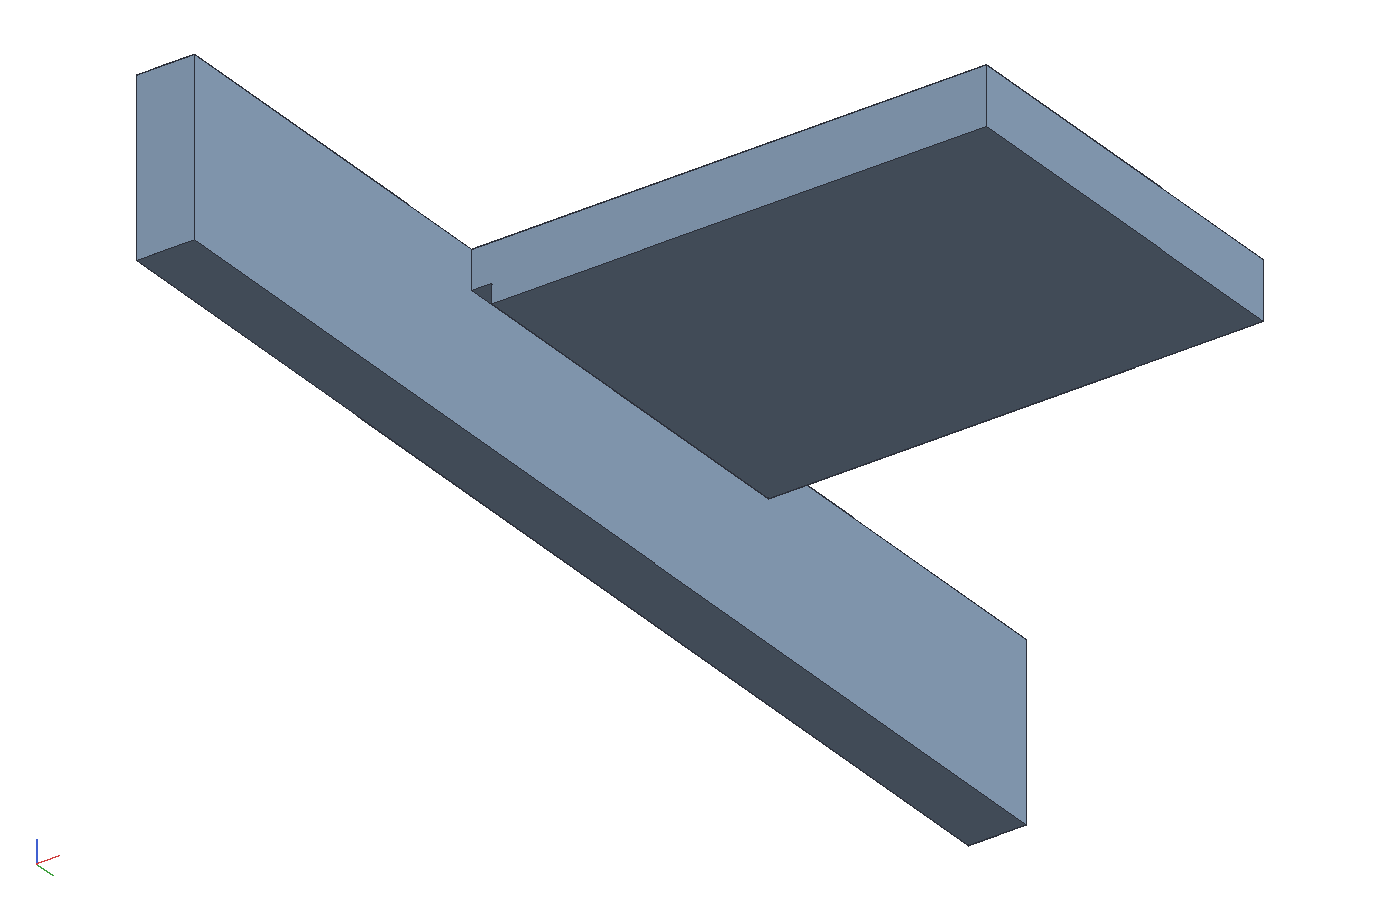
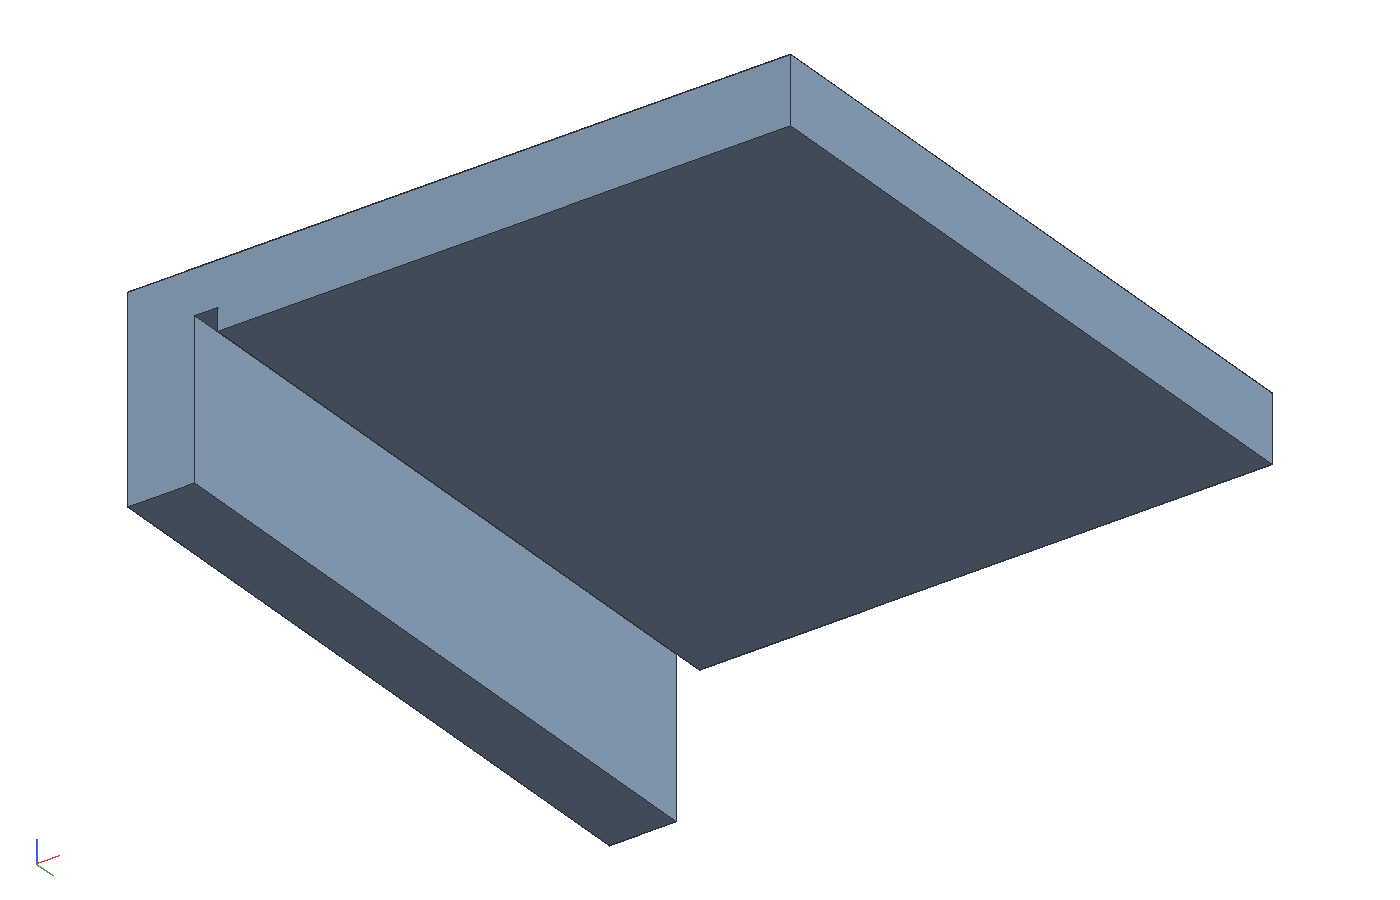
track-gauge: an extruded L, the fence the short leg and the depth the long
The gauge becomes an L in section extruded 60 mm along the sheet edge
instead of a T in plan: a 6 mm fence hanging 12 mm over the edge as
the short leg, a 6 mm depth leg out to 2 in plus the kerf, 53.0 mm,
as the long one, the 2 mm dust groove in the corner. Same print
orientation and registering faces; the test now checks it is one
extrusion (two end faces only) and its volume as the section by the
length. The README and roadmap follow.

Claude-Session: https://claude.ai/code/session_01Jqbg6MnHzXQdNRZ91M8YR1

diff --git a/examples/track-gauge/build.py b/examples/track-gauge/build.py
@@ -3,8 +3,9 @@ edge 2 in plus the blade's kerf from the edge of a sheet, so the cut
 leaves a 2 in strip. Hook the fence over the sheet edge, slide the
 track up to the gauge's face, lift the gauge off, cut. Two of them, one
 at each end of the track, square the track to the edge as well. One
-printed piece, a T in plan: the fence is the crossbar along the sheet
-edge, the stem reaches out to the track.
+printed piece, an L in section extruded along the edge: the short leg
+is the fence, hooking down over the sheet edge, the long leg is the
+depth, lying on the sheet out to the track.
 
     cargo build --release -p ok-mcp
     python3 examples/track-gauge/build.py       # the document, the STL, pictures and sheets
@@ -12,8 +13,8 @@ edge, the stem reaches out to the track.
 
 The strip is in inches, the print in millimetres, the document in
 millimetres. Frame: x across from the sheet edge (the fence's inner
-face is x = 0), y along the edge (the T's centreline is y = 0), z up
-from the sheet's top face (the stem's underside is z = 0).
+face is x = 0), y along the edge (the L's middle is y = 0), z up from
+the sheet's top face (the depth leg's underside is z = 0).
 """
 import os
 import sys
@@ -28,17 +29,15 @@ IN = 25.4
 WIDTH = 2.0                 # the strip the cut leaves between the sheet edge and the kerf, inches
 KERF = 2.2 / IN             # the blade: 2.2 mm on a Festool or Makita track saw; 1.5 or 1.6 on their thin-kerf blades
 # The print, in millimetres: 6 mm walls print stiff in three or four
-# perimeters, the fence long enough to hold the T square to the edge,
-# the stem wide enough to register the track's edge.
-T = 6.0 / IN                # the stem's thickness on the sheet, and the fence's; the track's edge is 5 tall against the stem's end
-FENCE_L = 120.0 / IN        # the crossbar along the sheet edge
-STEM_W = 40.0 / IN          # the stem across, centred on the fence
-DROP = 12.0 / IN            # the fence hangs this far below the stem, over the sheet's edge
-GROOVE = 2.0 / IN           # dust groove along the stem's inside bottom edge, so a crumb in the corner cannot hold the fence off
+# perimeters, and the L is long enough along the edge to sit square.
+T = 6.0 / IN                # both legs' thickness; the track's edge is 5 tall against the depth leg's end
+LEN = 60.0 / IN             # along the sheet edge
+DROP = 12.0 / IN            # the fence hangs this far below the depth leg, over the sheet's edge
+GROOVE = 2.0 / IN           # dust groove along the inside corner, so a crumb there cannot hold the fence off the edge
 # The picture of it in use: a corner of a 3/4 sheet, a track and the kerf.
 SHEET, SHEET_T = 24.0, 0.75
 TRACK_W, TRACK_T, TRACK_Y = 7.25, 0.2, (-3.0, 27.0)   # a Festool-pattern track: 184 wide, 5 thick at its edge
-GAUGE_Y = (3.0, 21.0)       # the T's centrelines: one gauge at each end of the cut
+GAUGE_Y = (3.0, 21.0)       # the L's middles: one gauge at each end of the cut
 MATERIALS = {"petg": ("PETG", 1.27), "ply": ("3/4 plywood", 0.6), "aluminium": ("aluminium", 2.7)}
 
 
@@ -55,20 +54,20 @@ def part_is(p, f, name, material=None):
 
 
 def gauge(p):
-    """One body: the fence as the T's crossbar, the stem added to it
-    out to WIDTH + KERF, its length bound to the variables, and the
-    dust groove cut along the inside corner."""
+    """One body: the fence as the L's short leg, the depth leg added to
+    it out to WIDTH + KERF with its length bound to the variables, and
+    the dust groove cut along the inside corner."""
     p.apply({"type": "add_variable", "name": "width", "expression": f"{WIDTH * IN:g}"},
             {"type": "add_variable", "name": "kerf", "expression": f"{KERF * IN:g}"})
     s = p.sketch("right", -T * IN, "fence")
-    p.rect(s, mm(-FENCE_L / 2, -DROP), mm(FENCE_L / 2, T))
-    f = p.extrude(s, T * IN, op="new", name="fence, the crossbar")
-    s = p.sketch("right", 0.0, "stem")
-    p.rect(s, mm(-STEM_W / 2, 0.0), mm(STEM_W / 2, T))
-    g = p.extrude(s, (WIDTH + KERF) * IN, op="add", name="stem, 2 in plus the kerf long")
+    p.rect(s, mm(-LEN / 2, -DROP), mm(LEN / 2, T))
+    f = p.extrude(s, T * IN, op="new", name="fence, the short leg")
+    s = p.sketch("right", 0.0, "depth")
+    p.rect(s, mm(-LEN / 2, 0.0), mm(LEN / 2, T))
+    g = p.extrude(s, (WIDTH + KERF) * IN, op="add", name="depth, 2 in plus the kerf")
     p.apply({"type": "set_binding", "id": g, "field": "depth", "expression": "#width + #kerf"})
     s = p.sketch("top", 0.0, "dust groove")
-    p.rect(s, mm(0.0, -FENCE_L), mm(GROOVE, FENCE_L))
+    p.rect(s, mm(0.0, -LEN), mm(GROOVE, LEN))
     p.cut(s, GROOVE * IN, direction="normal", name="dust groove, 2 mm square")
     part_is(p, f, f"edge gauge, {WIDTH:g} in strip, {KERF * IN:g} mm kerf", "petg")
 
@@ -127,7 +126,7 @@ def main():
     mcp.call("screenshot", {"tab": 1, "view": "0.5,-0.7,-0.5", "width": 1400, "height": 900, "path": os.path.join(OUT, "gauge_below.png")})
     mcp.call("screenshot", {"tab": 4, "view": "-0.55,-0.7,0.45", "width": 1600, "height": 1000, "path": os.path.join(OUT, "in_use.png")})
     print(mcp.call("export", {"tab": 1, "format": "pdf", "sheet": "A4", "views": ["front", "top", "right", "iso"],
-                              "note": f"printed, one piece; the stem {WIDTH:g} in + {KERF * IN:g} mm kerf = {(WIDTH + KERF) * IN:.1f} mm from the fence's inner face; 6 mm walls, the fence {DROP * IN:g} below the stem; 2 mm dust groove",
+                              "note": f"printed, one piece, an L extruded {LEN * IN:g} along the edge; the depth leg {WIDTH:g} in + {KERF * IN:g} mm kerf = {(WIDTH + KERF) * IN:.1f} mm from the fence's inner face; 6 mm legs, the fence {DROP * IN:g} below; 2 mm dust groove",
                               "path": os.path.join(OUT, "gauge.pdf")}))
     print(mcp.call("export", {"tab": 4, "format": "pdf", "sheet": "A4", "views": ["iso", f"section@{(GAUGE_Y[0] + 2.0) * IN:g}"],
                               "window": ",".join(f"{v * IN:g}" for v in (-1.5, -0.5, -1.0, WIDTH + KERF + 3.0, 6.0, 1.5)),

diff --git a/crates/ok-render/tests/track_gauge.rs b/crates/ok-render/tests/track_gauge.rs
@@ -1,9 +1,10 @@
-//! The track saw edge gauge (examples/track-gauge): one printed T
-//! regenerates closed at its sizes, the stem 2 in plus the kerf long
-//! from the fence's inner face with its dust groove, every face square
-//! to the axes so it prints flat, and the STL is written; in use the
-//! sheet edge, the gauge, the track's edge and the kerf line up so the
-//! strip the blade leaves is exactly 2 in.
+//! The track saw edge gauge (examples/track-gauge): one printed L,
+//! extruded along the edge, regenerates closed at its sizes, the depth
+//! leg 2 in plus the kerf long from the fence's inner face with its
+//! dust groove, every face square to the axes so it prints flat, and
+//! the STL is written; in use the sheet edge, the gauge, the track's
+//! edge and the kerf line up so the strip the blade leaves is exactly
+//! 2 in.
 
 use ok_brep::{Solid, Surface};
 use ok_math::Vec3;
@@ -15,8 +16,7 @@ const WIDTH: f64 = 2.0;
 const KERF: f64 = 2.2 / IN;
 const T: f64 = 6.0 / IN;
 const FENCE_T: f64 = 6.0 / IN;
-const FENCE_L: f64 = 120.0 / IN;
-const STEM_W: f64 = 40.0 / IN;
+const LEN: f64 = 60.0 / IN;
 const DROP: f64 = 12.0 / IN;
 const GROOVE: f64 = 2.0 / IN;
 
@@ -55,7 +55,7 @@ fn body<'a>(bodies: &'a [Body], name: &str) -> &'a Body {
 }
 
 #[test]
-fn the_gauge_is_one_printed_t_at_its_sizes_with_the_groove() {
+fn the_gauge_is_one_printed_l_at_its_sizes_with_the_groove() {
     let mut doc = load();
     let r = doc
         .regenerate_studio(tab_named(&doc, "gauge"), None)
@@ -69,10 +69,10 @@ fn the_gauge_is_one_printed_t_at_its_sizes_with_the_groove() {
     let g = &r.bodies[0];
     g.solid.validate().unwrap();
     assert_eq!(g.material.as_ref().map(|m| m.name.as_str()), Some("PETG"));
-    // The envelope: the fence 6 mm outside the sheet edge and 120 along
-    // it, hanging 12 below the stem's underside and flush with its top;
-    // the stem 6 thick from the fence's inner face out 2 in plus the
-    // kerf, 53.0 mm.
+    // The envelope: the fence 6 mm outside the sheet edge, hanging 12
+    // below the depth leg's underside and flush with its top; the
+    // depth leg 6 thick from the fence's inner face out 2 in plus the
+    // kerf, 53.0 mm; 60 along the edge, the same section throughout.
     let (lo, hi) = bounds(&g.solid);
     assert!(
         near(lo.x, -FENCE_T) && near(hi.x, WIDTH + KERF),
@@ -82,44 +82,28 @@ fn the_gauge_is_one_printed_t_at_its_sizes_with_the_groove() {
     );
     assert!(near(hi.x * IN, 53.0), "53.0 mm: 50.8 and a 2.2 kerf");
     assert!(
-        near(lo.y, -FENCE_L / 2.0) && near(hi.y, FENCE_L / 2.0),
+        near(lo.y, -LEN / 2.0) && near(hi.y, LEN / 2.0),
         "y {}..{}",
         lo.y,
         hi.y
     );
     assert!(near(lo.z, -DROP) && near(hi.z, T), "z {}..{}", lo.z, hi.z);
-    // A T in plan: at the stem's end the body is STEM_W across, at the
-    // fence FENCE_L across. Read off the planes: a face normal to y at
-    // y = STEM_W / 2 and one at FENCE_L / 2.
-    let y_faces: Vec<f64> = g
+    // An extrusion: the only faces normal to y are its two ends.
+    let y_faces = g
         .solid
         .surfaces
         .iter()
-        .filter_map(|s| match s {
-            Surface::Plane { normal, offset } if normal.y.abs() > 0.999 => {
-                Some((offset * normal.y).abs() / IN)
-            }
-            _ => None,
-        })
-        .collect();
-    assert!(
-        y_faces.iter().any(|y| near(*y, STEM_W / 2.0)),
-        "the stem's sides"
-    );
-    assert!(
-        y_faces.iter().any(|y| near(*y, FENCE_L / 2.0)),
-        "the fence's ends"
-    );
-    // The volume: the fence and the stem less the 2 mm groove along
-    // the stem's inside bottom edge.
-    let want =
-        FENCE_T * FENCE_L * (DROP + T) + (WIDTH + KERF) * STEM_W * T - GROOVE * GROOVE * STEM_W;
+        .filter(|s| matches!(s, Surface::Plane { normal, .. } if normal.y.abs() > 0.999))
+        .count();
+    assert_eq!(y_faces, 2, "an L extruded along the edge");
+    // The volume: the L's section less the 2 mm groove, by the length.
+    let want = (FENCE_T * (DROP + T) + (WIDTH + KERF) * T - GROOVE * GROOVE) * LEN;
     let v = g.solid.volume() / IN.powi(3);
     println!(
         "gauge {v:.4} in3 ({:.0} mm3), {want:.4} wanted",
         v * IN.powi(3)
     );
-    assert!((v - want).abs() < 1e-6, "{v}: the T less the groove");
+    assert!((v - want).abs() < 1e-6, "{v}: the L less the groove");
     let in_groove = g.solid.surfaces.iter().any(|s| match s {
         Surface::Plane { normal, offset } => {
             normal.z.abs() > 0.999 && near((offset * normal.z).abs(), GROOVE * IN)
@@ -131,10 +115,14 @@ fn the_gauge_is_one_printed_t_at_its_sizes_with_the_groove() {
     // normal points along an axis, so there is no sloped surface, and
     // the top is one plane.
     assert!(
-        g.solid.surfaces.iter().all(|s| matches!(s, Surface::Plane { normal, .. } if normal.x.abs() > 0.999 || normal.y.abs() > 0.999 || normal.z.abs() > 0.999)),
+        g.solid
+            .surfaces
+            .iter()
+            .all(|s| matches!(s, Surface::Plane { normal, .. }
+            if normal.x.abs() > 0.999 || normal.y.abs() > 0.999 || normal.z.abs() > 0.999)),
         "all faces square to the axes"
     );
-    // The STL is written: a binary STL of the T's facets.
+    // The STL is written: a binary STL of the L's facets.
     let bytes = std::fs::read(dir().join("out/gauge.stl")).unwrap();
     let tris = u32::from_le_bytes(bytes[80..84].try_into().unwrap()) as usize;
     assert_eq!(
@@ -142,7 +130,7 @@ fn the_gauge_is_one_printed_t_at_its_sizes_with_the_groove() {
         84 + 50 * tris,
         "a binary STL of {tris} triangles"
     );
-    assert!(tris >= 28, "{tris} triangles: the T has 14 faces");
+    assert!(tris >= 16, "{tris} triangles: the L has 8 faces");
 }
 
 #[test]

diff --git a/examples/track-gauge/README.md b/examples/track-gauge/README.md
@@ -2,7 +2,7 @@
 
 A fixed marking gauge for a track saw, printed in one piece: hook it
 over the edge of a sheet, slide the track's edge up against the end of
-its stem, lift it off, cut. The track lands 2 in plus the blade's kerf
+its depth leg, lift it off, cut. The track lands 2 in plus the blade's kerf
 from the edge, so the strip the blade leaves between the edge and the
 cut is 2 in. Not settable, and that is the point: no measuring, no
 pencil line, the same strip every time. Print two and put one at each
@@ -18,47 +18,49 @@ end of the track, and the track is parallel to the edge as well.
 
 A track saw cuts along the track's splinter-guard edge, with the whole
 kerf outside the track. Put the track's edge at 2 in from the sheet
-edge and the strip comes out 2 in less a kerf. The stem is therefore
-`WIDTH + KERF` long from the fence's inner face: 2 in plus 2.2 mm,
-53.0 mm, for a Festool or Makita blade. `KERF` at the top of
+edge and the strip comes out 2 in less a kerf. The depth leg is
+therefore `WIDTH + KERF` long from the fence's inner face: 2 in plus
+2.2 mm, 53.0 mm, for a Festool or Makita blade. `KERF` at the top of
 `build.py` is the number to change for a thin-kerf blade (1.5 or
 1.6 mm); `width` and `kerf` are also document variables, and the
-stem's length is bound to their sum, so the client shows the same
-thing.
+depth leg's length is bound to their sum, so the client shows the
+same thing.
 
 ## What it is
 
-A T in plan, one printed body, `out/gauge.stl`:
+An L in section, extruded 60 mm along the sheet edge, one printed
+body, `out/gauge.stl`:
 
 | part | size | what it does |
 |------|------|--------------|
-| fence, the crossbar | 120 long x 6 thick, 18 tall | runs along the sheet edge; its inner face registers on the edge, and its length keeps the T square to it, so the stem cannot skew |
-| stem | 40 wide x 6 thick, 53.0 long from the fence's inner face | lies on the sheet; its end face is what the track's edge butts against |
-| hook | the fence hangs 12 below the stem's underside | over the sheet edge; the top is one flat face |
-| dust groove | 2 mm square along the stem's inside bottom edge | so a crumb of sawdust in the corner cannot hold the fence off the edge |
+| fence, the short leg | 6 thick, 18 tall, hanging 12 below the depth leg | hooks over the sheet edge; its inner face registers on the edge |
+| depth, the long leg | 6 thick, 53.0 long from the fence's inner face | lies on the sheet; its end face is what the track's edge butts against |
+| dust groove | 2 mm square along the inside corner | so a crumb of sawdust in the corner cannot hold the fence off the edge |
 
-6 mm walls print stiff in three or four perimeters; the track's edge
-is 5 mm tall, so the stem's 6 mm end face catches all of it. The
-fence is long so the gauge cannot rotate in plan against the edge,
-which is the only way the 53.0 could read short.
+6 mm legs print stiff in three or four perimeters; the track's edge
+is 5 mm tall, so the 6 mm end face catches all of it. 60 mm along the
+edge is enough bearing on the edge to sit square; print two and use
+one at each end of the track.
 
 Printing: PETG or PLA, 0.2 layers, three or four perimeters, any
 infill. Print it on its top face, the one flat face, with no supports:
 every surface is square to the axes, so nothing overhangs. The faces
-that register (the fence's inner face, the stem's end, the stem's
+that register (the fence's inner face, the depth leg's end and its
 underside) are vertical walls and a top surface of that print, away
-from the first layer's elephant foot. Check the stem's end against the
-fence's inner face with calipers: 53.0 mm. If the printer runs big or
-small in the plane, scale the print, or set `KERF` to what the
-calipers want and print again. Then check the first strip you cut.
+from the first layer's elephant foot. Check the depth leg's end
+against the fence's inner face with calipers: 53.0 mm. If the printer
+runs big or small in the plane, scale the print, or set `KERF` to what
+the calipers want and print again. Then check the first strip you
+cut.
 
 ![in use](out/in_use.png)
 
 ## The model
 
-- `gauge`: the fence as the crossbar, the stem added to it, extruded
-  from the fence's inner face by `#width + #kerf`, and the dust groove
-  cut along the inside corner. One body, PETG, exported as the STL.
+- `gauge`: the fence as the short leg, the depth leg added to it,
+  extruded from the fence's inner face by `#width + #kerf`, and the
+  dust groove cut along the inside corner. One body, PETG, exported as
+  the STL.
 - `sheet` and `track`: a 24 x 24 corner of 3/4 ply with its top at
   z = 0 and its edge at x = 0, a 7-1/4 x 0.2 track bar with its edge at
   `WIDTH + KERF`, and the kerf as a 2.2 mm body through the sheet from
@@ -69,9 +71,9 @@ calipers want and print again. Then check the first strip you cut.
   `gauge_below.png` (the hook and the groove), `in_use.png`,
   `gauge.pdf` (front, top, right and iso) and `in_use.pdf` (the gauge
   on the sheet, and a section across it through the track and kerf).
-- The test checks the T at its sizes, the stem 53.0 mm from the
-  fence's inner face, the fence's and stem's widths from its faces,
+- The test checks the L at its sizes, the depth leg 53.0 mm from the
+  fence's inner face, that it is one extrusion (two end faces only),
   the volume with the groove taken out, every face square to the axes
   (so it prints flat), the binary STL, and in use the sheet edge,
-  fence, stem end, track edge and kerf lining up so the strip is
-  exactly 2 in.
+  fence, depth leg's end, track edge and kerf lining up so the strip
+  is exactly 2 in.

diff --git a/docs/ROADMAP.md b/docs/ROADMAP.md
@@ -160,7 +160,7 @@ in `docs/DECISIONS.md`.
 - [x] Drawing dialog and SVG drawings: the two PDF section views (`section`, `section-side`, each with `@<mm>`), so the client's preview matches the sheet the MCP tool writes
 - [x] A folding torsion-box truck ramp as a fourth example (`examples/ramp`, the brief in its README): two panels on a pipe hinge that doubles as the handle, each a sub-assembly, alike but for the hinge (one's rail lugs in the rails, the other's screwed on outboard), the second placed turned, a revolute for the fold with a range-of-motion sheet at 0 to 180 degrees, shop drawings with sections, a cut list, and `crates/ok-render/tests/ramp.rs` for the lug rule, the handle, the fold's clearances at nine angles, the packages' extents and the sheet yield
 - [x] A dummy PCIe x4 card, low profile, as a fifth example (`examples/pcie-dummy`): the CEM figures' outline with the finger tab, key notch and bracket holes, bare and with a printable I/O bracket fused on, as STLs; `crates/ok-render/tests/pcie_dummy.rs` checks the size, the tab, the key and holes and the STL files
-- [x] A track saw edge gauge as a small example (`examples/track-gauge`): a fixed marking gauge printed as one T, its stem 2 in plus the kerf long from its fence with the length bound to two document variables, as an STL, and an `in use` assembly with the sheet, the track and the kerf; `crates/ok-render/tests/track_gauge.rs` checks the sizes, the groove by volume, that every face is square to the axes so it prints flat, and that the strip the kerf leaves is exactly 2 in
+- [x] A track saw edge gauge as a small example (`examples/track-gauge`): a fixed marking gauge printed as one L extruded along the edge, its depth leg 2 in plus the kerf long from its fence with the length bound to two document variables, as an STL, and an `in use` assembly with the sheet, the track and the kerf; `crates/ok-render/tests/track_gauge.rs` checks the sizes, the groove by volume, that every face is square to the axes so it prints flat, and that the strip the kerf leaves is exactly 2 in
 - [x] The client on a phone: under 760 px the viewport goes on top and the sidebar under it as a scrolling drawer, the top bar wraps and drops the measuring and import controls, dialogs fit the width; the `.panel` rule no longer overrides `hidden` (the studio panel showed under an assembly's) and a panel that shrinks clips instead of spilling over the next; the viewer sizes its canvas in CSS pixels, so a high-DPI screen no longer shows a double-size, clipped view; `apps/web/scripts/screenshots.cjs` shoots the ramp example at desktop and phone sizes for the README's screenshots
 - [ ] `Dockerfile.dev`: build it once on a machine with a Docker daemon; the sandbox it was written in had only the client
 - [x] Photo measuring in the web app: a Measure photo button whose dialog shows the squared-up picture and the parts, takes the sheet size and a reference, downloads the printable sheet and adds the outlines sketch; measured in the wasm (`ok-photo` builds for wasm32), not behind a server route, so it works without a server too
